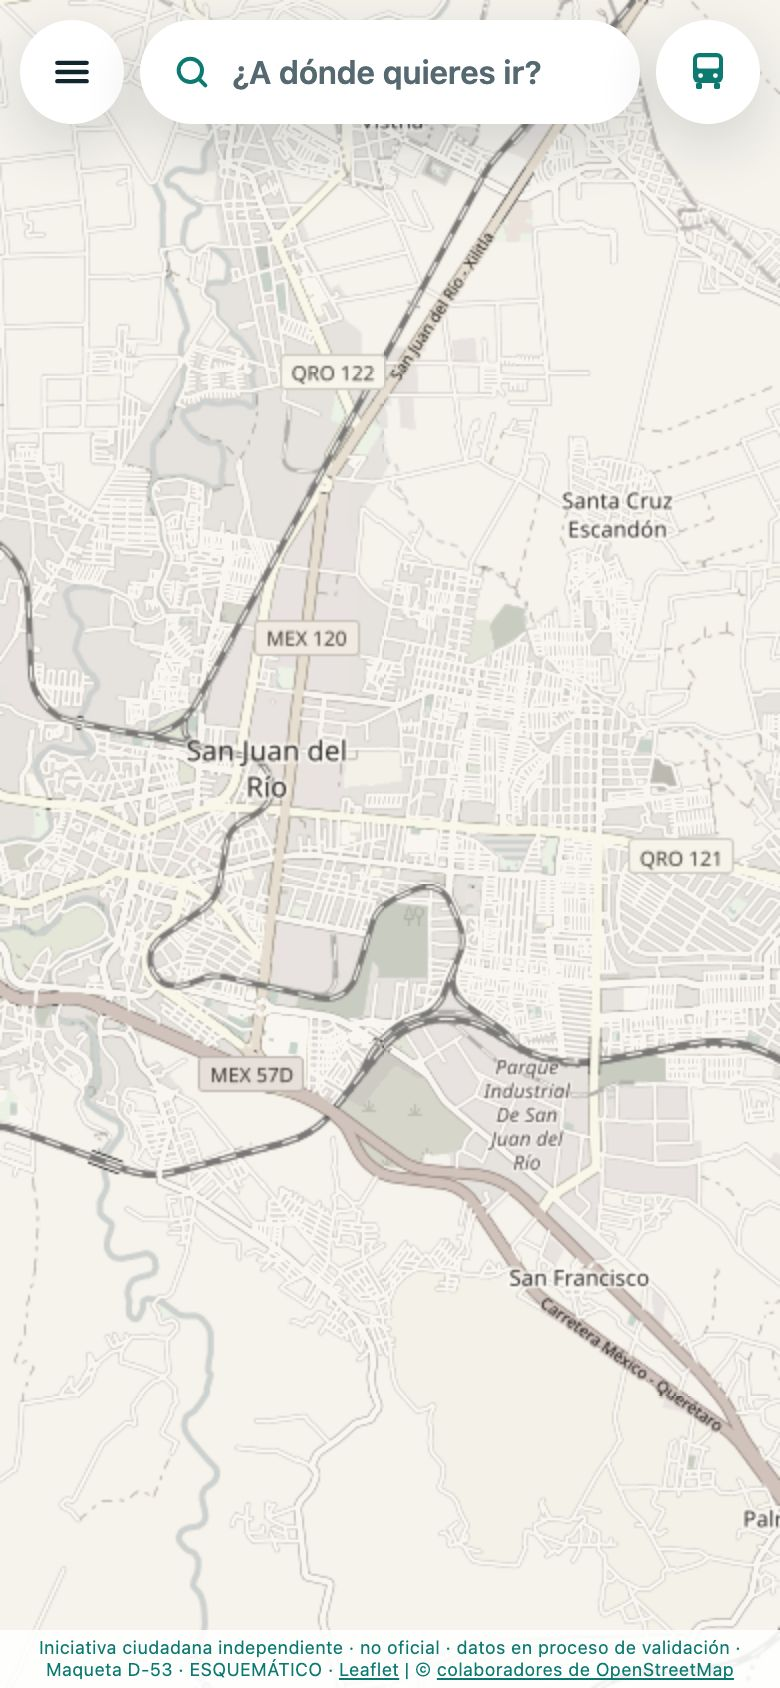
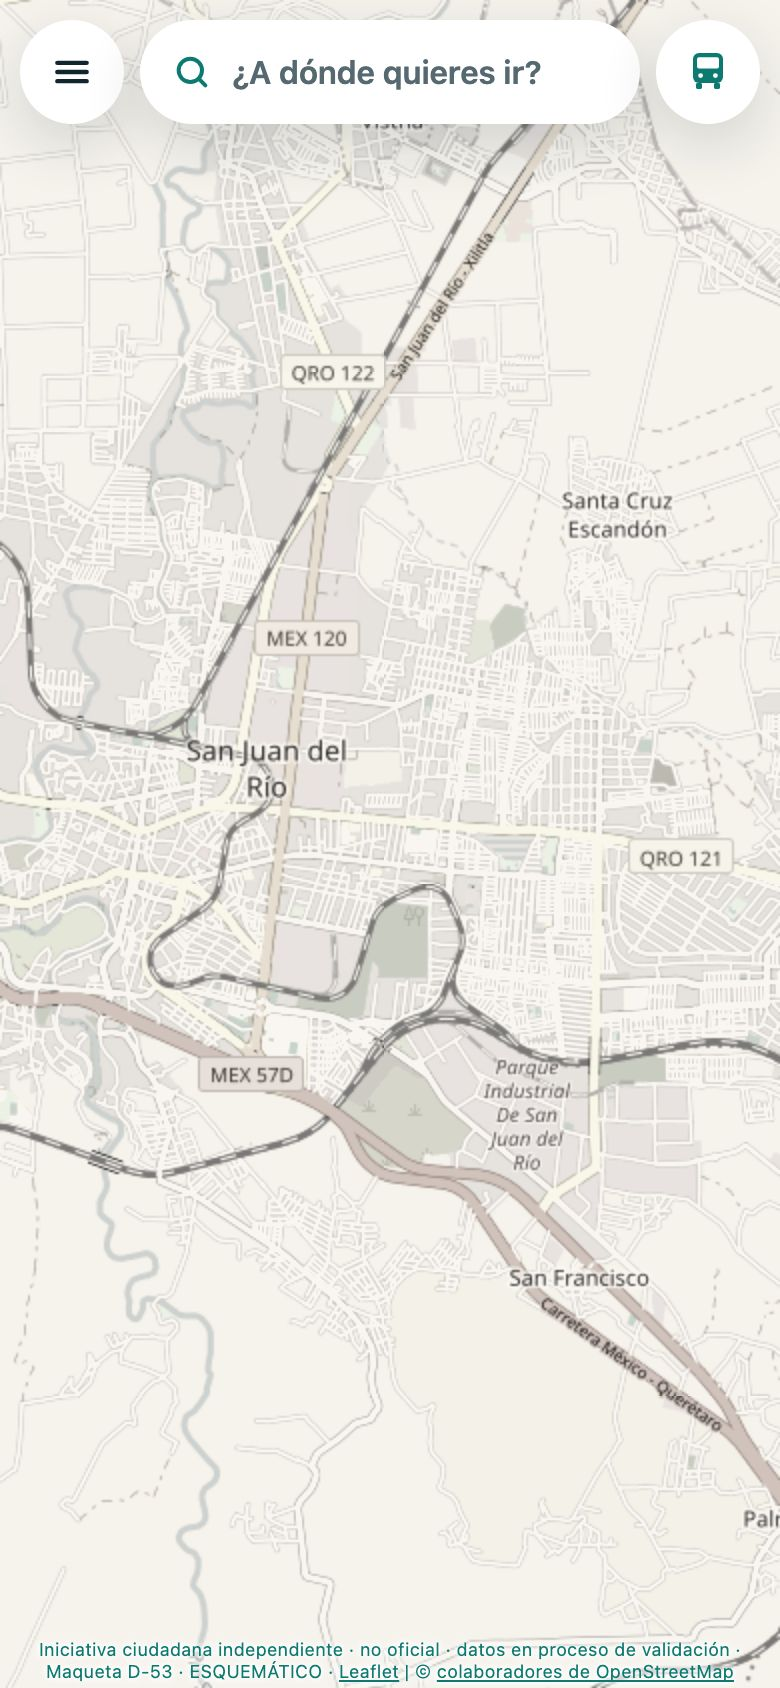
B2 · E-03 · D-53 maqueta, ajustes 2: leyendas al fondo, paradas en círculo con guía, pie transparente, R1 más grande

Changed region(s): [[0.0308, 0.955, 1.0, 1.0], [0.0, 0.9858, 0.0308, 1.0]]

diff --git a/docs/maquetas/d53/maqueta.html b/docs/maquetas/d53/maqueta.html
@@ -50,12 +50,13 @@ button { font: inherit; color: inherit; }
      leyenda de iniciativa, sello de maqueta y atribución de OpenStreetMap (regla 6). */
   position: absolute; z-index: 1250; left: 0; right: 0; bottom: 0; margin: 0; padding: 3px 10px;
   font-size: 9px; line-height: 1.3; text-align: center; color: var(--primario);
-  background: rgba(255,255,255,.88);
+  /* Ajuste 2 (6:57 pm): sin fondo, pegado abajo; un halo blanco lo deja leer sobre el mapa. */
+  background: none; padding: 1px 10px 2px; text-shadow: 0 0 2px #fff, 0 0 3px #fff, 0 0 4px #fff;
 }
 .pie a { color: inherit; }
 .aviso-mapa {
-  position: absolute; z-index: 950; left: 50%; transform: translateX(-50%); bottom: 40px;
-  max-width: calc(100% - 24px); padding: 3px 10px; border-radius: 12px; background: rgba(255,255,255,.88);
+  position: absolute; z-index: 950; left: 50%; transform: translateX(-50%); bottom: 25px;
+  max-width: calc(100% - 24px); padding: 0 10px; background: none; text-shadow: 0 0 2px #fff, 0 0 3px #fff, 0 0 4px #fff;
   font-size: 11px; line-height: 1.35; text-align: center; white-space: nowrap; color: var(--primario);
 }
 
@@ -65,6 +66,8 @@ button { font: inherit; color: inherit; }
   display: flex; align-items: center; gap: 10px; padding: 8px 8px 8px 10px;
   border-radius: 18px; background: var(--tarjeta); box-shadow: var(--sombra);
 }
+.chip-ruta .camion { font-size: 19px; padding: 6px 11px 6px 9px; border-radius: 10px; }
+.chip-ruta .camion svg { width: 19px; height: 19px; }
 .chip-ruta .nombre-chip { flex: 1; min-width: 0; font-size: 13.5px; font-weight: 700; line-height: 1.25; }
 .chip-ruta .nombre-chip small { display: block; font-weight: 500; color: var(--suave); font-size: 11.5px; }
 .chip-ruta .ver { flex: none; min-height: 44px; padding: 0 14px; border: 0; border-radius: 22px; background: var(--primario); color: #fff; font-weight: 700; font-size: 14px; }
@@ -92,7 +95,11 @@ button { font: inherit; color: inherit; }
 }
 .pestanas .activo { color: var(--primario); box-shadow: inset 0 -3px 0 var(--primario); }
 
-.hoja-cuerpo { flex: 1; min-height: 0; overflow-y: auto; scrollbar-width: none; }
+.hoja-cuerpo { flex: 1; min-height: 0; overflow-y: auto; scrollbar-width: none; display: flex; flex-direction: column; }
+.hoja-cuerpo > * { flex-shrink: 0; }
+/* Ajuste 2 (6:57 pm): las leyendas (estimado, maqueta, próximamente) juntas, hasta abajo. */
+.leyendas { margin-top: auto; padding-top: 18px; display: grid; gap: 4px; }
+.leyendas p { margin: 0; }
 .titulo-seccion { margin: 0 0 8px; font-size: 12px; font-weight: 700; color: var(--suave); text-transform: uppercase; letter-spacing: .05em; }
 .fila-titulo { display: flex; align-items: center; justify-content: space-between; }
 .borrar { min-height: 36px; padding: 0 12px; border: 0; border-radius: 18px; background: var(--fondo); font-size: 12px; font-weight: 700; color: var(--suave); }
@@ -155,7 +162,7 @@ button { font: inherit; color: inherit; }
 .tarjeta .dist { margin-top: auto; font-size: 10px; font-weight: 700; opacity: .92; }
 .ubicacion { width: 100%; min-height: 46px; border: 0; border-radius: 23px; background: var(--primario); color: #fff; font-size: 14px; font-weight: 700; display: flex; align-items: center; justify-content: center; gap: 8px; }
 .nota { margin: 6px 0 0; font-size: 10.5px; line-height: 1.4; color: var(--primario); }
-.proximamente { margin: 14px 0 0; font-size: 10.5px; line-height: 1.4; color: var(--primario); }
+.proximamente { margin: 0; font-size: 10.5px; line-height: 1.4; color: var(--primario); }
 
 /* Marcadores */
 .pin { background: none; border: 0; }
@@ -173,7 +180,7 @@ button { font: inherit; color: inherit; }
   .redondo.paradas { width: 44px; height: 44px; box-shadow: none; }
   .redondo.paradas.activo { background: var(--acento); color: var(--tinta); }
   .pie { text-align: right; font-size: 10px; }
-  .aviso-mapa { bottom: 28px; }
+  .aviso-mapa { bottom: 16px; }
   .chip-ruta { bottom: 32px; }
   .mapa { top: 60px; }
   .abierto .mapa { left: 400px; }
@@ -224,6 +231,9 @@ const flotante = document.getElementById('flotante');
 
 // Pictograma del pin de parada (D-49), en versión de botón: camión de frente.
 const BUS = (c = 'currentColor', v = '#fff') => `<svg width="24" height="24" viewBox="0 0 24 24" aria-hidden="true"><rect x="4.5" y="2.5" width="15" height="15" rx="3" fill="${c}"/><rect x="6.5" y="4.6" width="11" height="5.6" rx="1" fill="${v}"/><circle cx="8.3" cy="13.8" r="1.2" fill="${v}"/><circle cx="15.7" cy="13.8" r="1.2" fill="${v}"/><rect x="6" y="17.5" width="3" height="3" rx=".7" fill="${c}"/><rect x="15" y="17.5" width="3" height="3" rx=".7" fill="${c}"/></svg>`;
+// Ajuste 2 (6:57 pm): parada como círculo levantado; una guía de puntitos baja al punto exacto.
+const PARADA = '<svg width="20" height="38" viewBox="0 0 20 38" aria-hidden="true"><line x1="10" y1="19" x2="10" y2="34" stroke="#0d7a72" stroke-width="2" stroke-dasharray="0.1 3.4" stroke-linecap="round"/><circle cx="10" cy="35.5" r="2.2" fill="#0d7a72" stroke="#fff" stroke-width="1"/><circle cx="10" cy="10" r="8" fill="#0d7a72" stroke="#fff" stroke-width="2.5"/><circle cx="10" cy="10" r="3" fill="#fff"/></svg>';
+const icParada = () => icono(PARADA, [20, 38], [10, 35.5]);
 const PIN = '<svg width="30" height="38" viewBox="0 0 30 38"><path d="M15 37s12-12.2 12-22A12 12 0 0 0 3 15c0 9.8 12 22 12 22z" fill="#0d7a72" stroke="#fff" stroke-width="2"/><rect x="8" y="6" width="14" height="13" rx="2.6" fill="#fff"/><rect x="9.8" y="8" width="10.4" height="5" rx="1" fill="#0d7a72"/><path d="M15 8v5" stroke="#fff" stroke-width="1.2"/><circle cx="11.2" cy="16.2" r="1.1" fill="#0d7a72"/><circle cx="18.8" cy="16.2" r="1.1" fill="#0d7a72"/><rect x="9.4" y="18.4" width="2.8" height="2.4" rx=".6" fill="#fff"/><rect x="17.8" y="18.4" width="2.8" height="2.4" rx=".6" fill="#fff"/></svg>';
 const BUS_CHICO = '<svg width="18" height="18" viewBox="0 0 24 24" fill="none" stroke="currentColor" stroke-width="2" stroke-linecap="round"><rect x="5" y="3" width="14" height="14" rx="3"/><path d="M5 10h14"/><circle cx="9" cy="13.5" r=".7" fill="currentColor"/><circle cx="15" cy="13.5" r=".7" fill="currentColor"/><path d="M8 20v-3M16 20v-3"/></svg>';
 const RELOJ = '<svg width="18" height="18" viewBox="0 0 24 24" fill="none" stroke="currentColor" stroke-width="2" stroke-linecap="round"><circle cx="12" cy="12" r="8.5"/><path d="M12 7.5V12l3 2"/></svg>';
@@ -345,20 +355,22 @@ function destino() {
     <div class="bloque">
       <h3 class="titulo-seccion">Rutas que empiezan o terminan cerca</h3>
       <div class="rejilla cerca">${cerca.map(({ i, d }) => `<button class="tarjeta" style="${estilo(i)}">${camion(insignia(rutas[i]))}<span class="tarjeta-nombre">${rutas[i].nombre}</span><span class="dist">${d < 50 ? 'ahí' : 'a ' + redondeo(d)}</span></button>`).join('')}</div>
-      <p class="nota">ESTIMADO · distancia en línea recta a la zona de inicio o fin, hasta 1 km.</p>
     </div>
     <div class="bloque">
       <h3 class="titulo-seccion">Tu parada más cercana</h3>
       <button class="ubicacion">${BUS('#fff', '#0d7a72')}Usar mi ubicación</button>
-      <p class="nota">Maqueta: con una ubicación de muestra (${yo.lugar}), la parada más cercana queda a ${redondeo(parada.d)} en línea recta y se marca en el mapa · POR VERIFICAR EN CAMPO. Tu ubicación no sale del teléfono.</p>
     </div>
-    <p class="proximamente">Próximamente (fases posteriores): qué ruta tomar desde tu parada, el recorrido de cada ruta y el camino a pie por calles.</p>`;
+    <div class="leyendas">
+      <p class="nota">estimado · distancia en línea recta a la zona de inicio o fin de cada ruta, hasta 1 km.</p>
+      <p class="nota">Maqueta: con una ubicación de muestra (${yo.lugar}), la parada más cercana queda a ${redondeo(parada.d)} en línea recta y se marca en el mapa · por verificar en campo. Tu ubicación no sale del teléfono.</p>
+      <p class="proximamente">Próximamente (fases posteriores): qué ruta tomar desde tu parada, el recorrido de cada ruta y el camino a pie por calles.</p>
+    </div>`;
 
   mapa.setView([(dest.lat + yo.lat) / 2, (dest.lon + yo.lon) / 2], escritorio ? 14 : 13);
   L.circle([dest.lat, dest.lon], { radius: dest.radio_m, color: '#a8432a', fillColor: '#a8432a', fillOpacity: .14, weight: 2.5, dashArray: '6 6' }).addTo(mapa);
   L.marker([dest.lat, dest.lon], { icon: icono(`<span style="background:#a8432a">Destino: ${dest.lugar}</span>`, [200, 26], [100, 13], 'etq-zona') }).addTo(mapa);
   L.marker([yo.lat, yo.lon], { icon: icono('<div class="yo"></div>', [16, 16], [8, 8], 'pin') }).addTo(mapa);
-  L.marker([parada.lat, parada.lon], { icon: icono(PIN, [30, 38], [15, 37]) }).addTo(mapa);
+  L.marker([parada.lat, parada.lon], { icon: icParada() }).addTo(mapa);
   if (escritorio) mapa.fitBounds([[dest.lat, dest.lon], [yo.lat, yo.lon]], { padding: [80, 80] });
 }
 
@@ -371,7 +383,7 @@ if (vista === 'detalle' || vista === 'ruta') {
   if (vista === 'detalle') { abrir(); detalle(i); }
   else {
     const r = rutas[i];
-    flotante.innerHTML = `<div class="chip-ruta">${camion(insignia(r)).replace('class="camion"', `class="camion" style="${estilo(i)};background:${color(i).fondo};color:${color(i).texto}"`)}<span class="nombre-chip">${r.nombre}<small>Ida · zonas aproximadas (ESTIMADO)</small></span><button class="ver">Ver detalle</button></div>`;
+    flotante.innerHTML = `<div class="chip-ruta">${camion(insignia(r)).replace('class="camion"', `class="camion" style="${estilo(i)};background:${color(i).fondo};color:${color(i).texto}"`)}<span class="nombre-chip">${r.nombre}<small>Ida · zonas aproximadas (estimado)</small></span><button class="ver">Ver detalle</button></div>`;
   }
   setTimeout(() => { mapa.invalidateSize(); mapa.fitBounds(pts, { padding: escritorio ? [120, 120] : [70, 70] }); }, 50);
 }
@@ -379,7 +391,7 @@ if (vista === 'paradas') {
   const bp = document.getElementById('boton-paradas');
   bp.classList.add('activo');
   bp.innerHTML = BUS(escritorio ? '#12262d' : '#fff', escritorio ? '#f0a032' : '#0d7a72');
-  paradas.forEach((p) => L.marker([p.lat, p.lon], { icon: icono(PIN, [30, 38], [15, 37]) }).addTo(mapa));
+  paradas.forEach((p) => L.marker([p.lat, p.lon], { icon: icParada() }).addTo(mapa));
   flotante.innerHTML = `<div class="aviso-mapa">${paradas.length} paradas de OpenStreetMap · por verificar en campo</div>`;
 }
 if (vista === 'destino') {

diff --git a/docs/DECISIONES.md b/docs/DECISIONES.md
@@ -1409,6 +1409,20 @@ Miguel).
      renglones a lo ancho.
   4. **Se quita el cuadro «Parada de OpenStreetMap»** (no era botón); la
      parada se marca en el mapa y la nota va en verde, chica.
+- **Ajustes 2 (Miguel, 20 nov 2026, 6:57 pm), ya en la maqueta:**
+  1. En «Calcula tu ruta», las leyendas (estimado, nota de maqueta,
+     próximamente) van **juntas, hasta abajo** del menú, en el mismo tamaño.
+  2. **Paradas como círculo levantado** (distinto del pin): círculo verde con
+     punto blanco, y una **guía de puntitos** que baja al punto exacto de la
+     parada. Levantarlas ayuda a leerlas, pero dos paradas a pocos metros se
+     siguen encimando a zoom bajo. **No se unen las paradas entre sí:** no se
+     sabe su orden ni qué ruta pasa por cada una (R-07); unirlas dibujaría un
+     recorrido inventado (regla 1).
+  3. **Pie legal y avisos del mapa sin fondo blanco**, pegados abajo y
+     transparentes (un halo blanco en la letra los deja leer sobre el mapa).
+  4. **«estimado» en minúscula** y letra chica en las leyendas (sigue dicho en
+     pantalla, regla 2).
+  5. **Insignia R1 más grande** en el aviso de ruta elegida con el menú cerrado.
 - **Decide:** Miguel. Se construye en el chat siguiente (contexto de este chat
   al 29 %, umbral de aviso 30 %).
 
